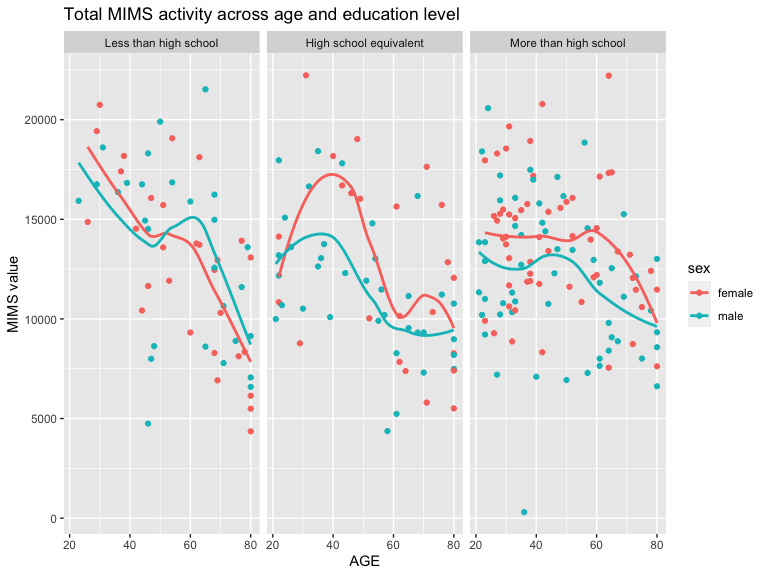
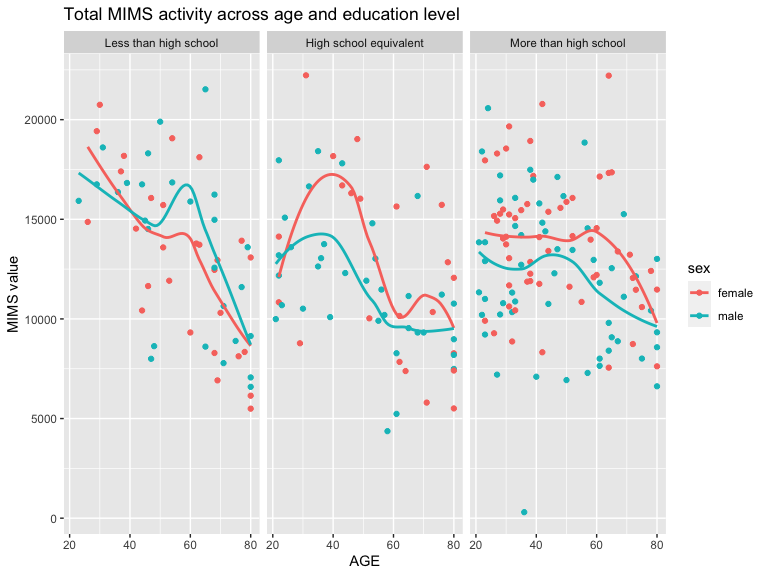
dropped nas from demographic

diff --git a/p8105_hw3_mf3593.md b/p8105_hw3_mf3593.md
@@ -206,6 +206,7 @@ acc_df=read_csv("nhanes_accel.csv")|>
     values_to="mims")
 
 combined_df=demo_df|>
+  na.omit()|>
   left_join(acc_df)
 
 combined_df|>
@@ -221,16 +222,15 @@ combined_df|>
 
 | education              | female | male |
 |:-----------------------|-------:|-----:|
-| Less than high school  |     29 |   28 |
-| High school equivalent |     23 |   36 |
+| Less than high school  |     28 |   27 |
+| High school equivalent |     23 |   35 |
 | More than high school  |     59 |   56 |
 
 The table describes numbers of female and male at different education
 level. There are more male with high school equivalent background than
 female. There are roughly same number of males and females with
-education less than high school. There are slightly more female than
-male with education more than high school. Most females and males have
-education more than high school.
+education less than high school and more than high school. Most females
+and males have education more than high school.
 
 ``` r
 combined_df|>

diff --git a/p8105_hw3_ajg2202/p8105_hw3_ajg2202.md b/p8105_hw3_ajg2202/p8105_hw3_ajg2202.md
@@ -1,7 +1,7 @@
 Homework 3 solutions
 ================
 Jeff Goldsmith
-2023-10-12
+2023-10-13
 
 ### Due date
 
